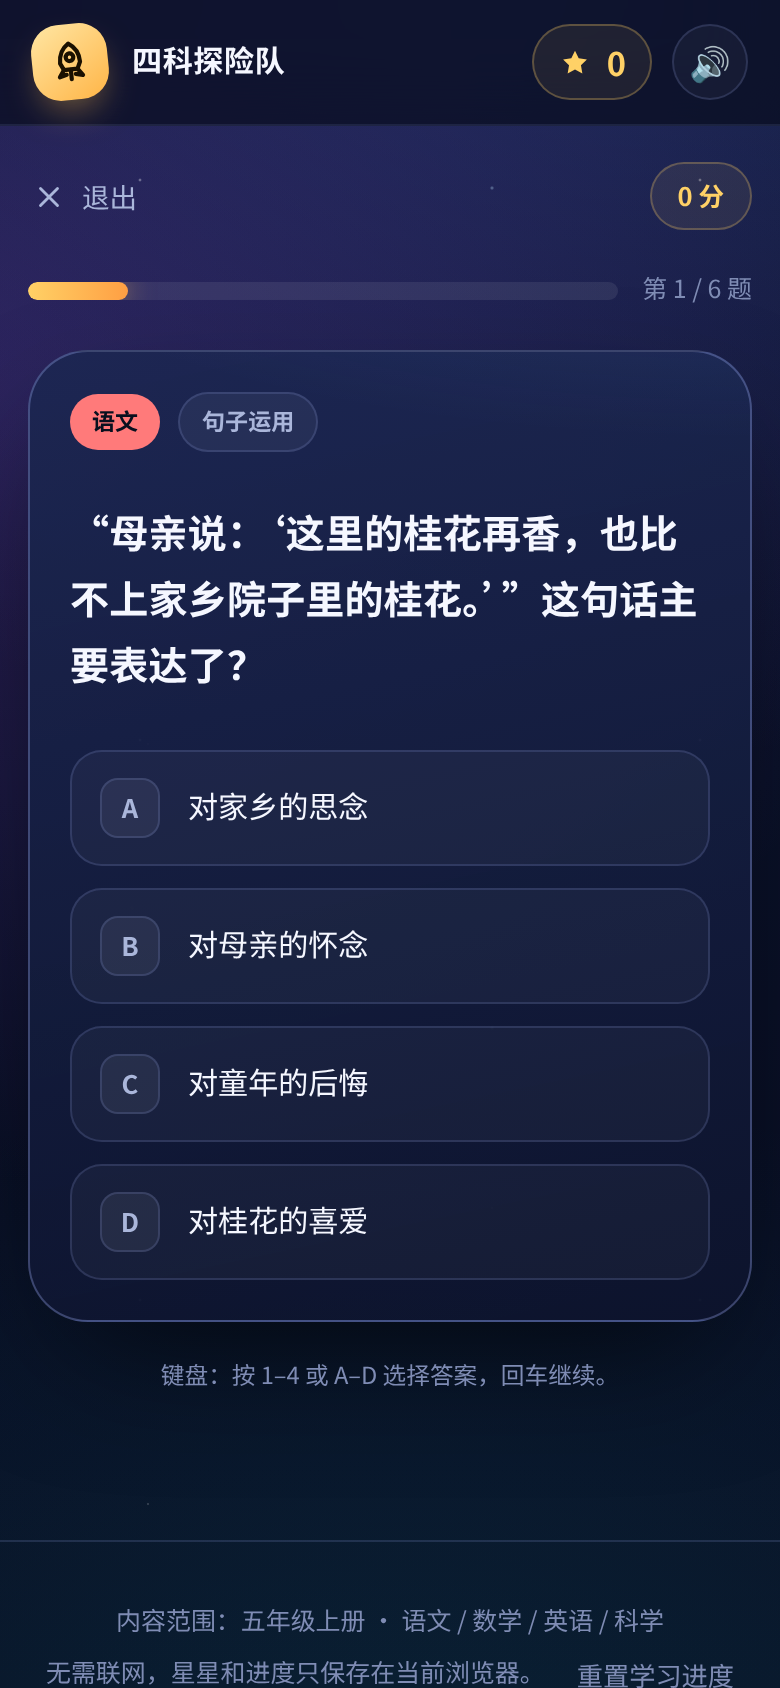
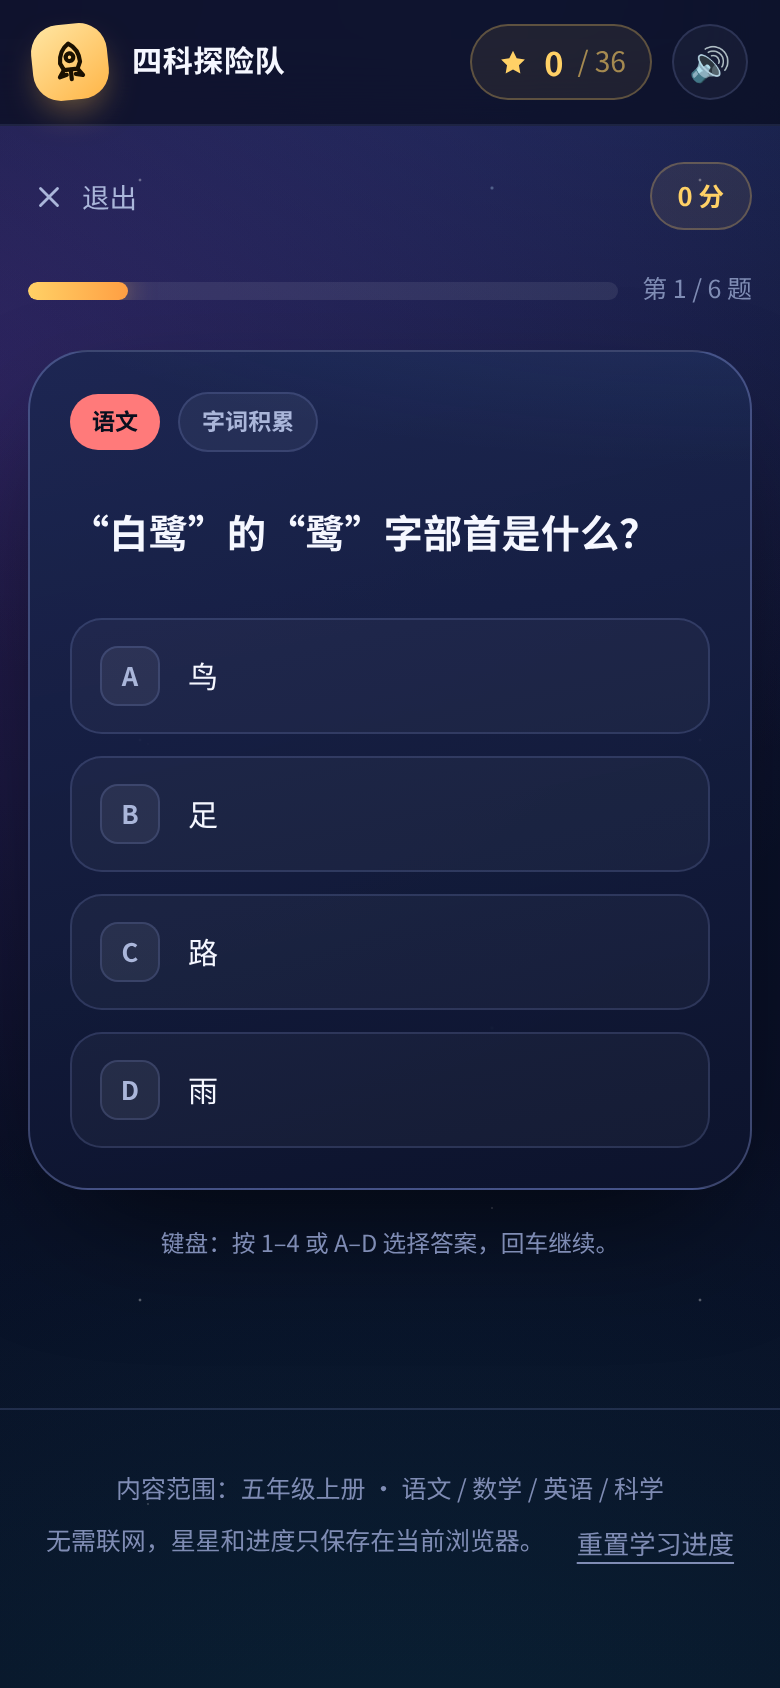
fix: improve accessibility of star counter and dialogs
Use a visually hidden label for the star counter, give level star ratings an image role, guard dialogs against double opens and Escape bubbling, and refresh the screenshots.

diff --git a/four-subject-game/assets/game.js b/four-subject-game/assets/game.js
@@ -481,7 +481,7 @@
             '<p>' + esc(level.subtitle) + ' · ' + esc(topics) + '</p>' +
             '<span class="level-card__meta">' + esc(meta) + '</span>' +
           '</div>' +
-          '<div class="level-card__stars" aria-label="' + stars + ' 颗星">' + starsMarkup(stars) + '</div>' +
+          '<div class="level-card__stars" role="img" aria-label="' + stars + ' 颗星">' + starsMarkup(stars) + '</div>' +
           '<div class="level-card__action">' + action + '</div>' +
         '</article>'
       );
@@ -933,9 +933,6 @@
         '</section>' +
       '</div>' +
       '<div class="result-actions">' + actions + '</div>';
-
-    var heading = $('#result-title');
-    if (heading) heading.focus({ preventScroll: true });
   }
 
   function buildGroups(run) {
@@ -1050,9 +1047,10 @@
   function confirmAction(options) {
     var dialog = $('#confirm-dialog');
     if (!dialog) {
-      if (window.confirm(options.title + '\n' + options.text)) options.onOk();
+      if (window.confirm(options.title + '\n' + options.text) && options.onOk) options.onOk();
       return;
     }
+    if (dialog.open) return;
     var titleEl = $('#confirm-title');
     var textEl = $('#confirm-text');
     var okBtn = $('#confirm-ok');
@@ -1232,6 +1230,7 @@
 
   document.addEventListener('keydown', function (event) {
     if (state.screen !== 'quiz' || !state.run) return;
+    if (document.querySelector('dialog[open]')) return;
     if (event.key === 'Escape') {
       event.preventDefault();
       requestExitQuiz();

diff --git a/four-subject-game/index.html b/four-subject-game/index.html
@@ -77,10 +77,12 @@
       </span>
     </a>
     <div class="topbar__tools">
-      <span class="star-counter" aria-label="已收集星星">
+      <span class="star-counter">
+        <span class="visually-hidden">已收集</span>
         <svg class="icon icon--star" aria-hidden="true"><use href="#icon-star"></use></svg>
         <b id="total-stars">0</b>
         <span class="star-counter__max">/ 36</span>
+        <span class="visually-hidden">颗星</span>
       </span>
       <button class="icon-btn" id="sound-toggle" type="button" data-action="sound" aria-pressed="true" aria-label="关闭音效">🔊</button>
     </div>

diff --git a/four-subject-game/assets/styles.css b/four-subject-game/assets/styles.css
@@ -133,6 +133,18 @@ ul {
   margin-inline: auto;
 }
 
+.visually-hidden {
+  position: absolute !important;
+  width: 1px;
+  height: 1px;
+  padding: 0;
+  margin: -1px;
+  overflow: hidden;
+  clip: rect(0 0 0 0);
+  white-space: nowrap;
+  border: 0;
+}
+
 /* ---------- 星空背景 ---------- */
 
 .sky {
@@ -2018,10 +2030,6 @@ ul {
 
   .brand__text b {
     font-size: 0.94rem;
-  }
-
-  .star-counter__max {
-    display: none;
   }
 
   .hero__stats {
